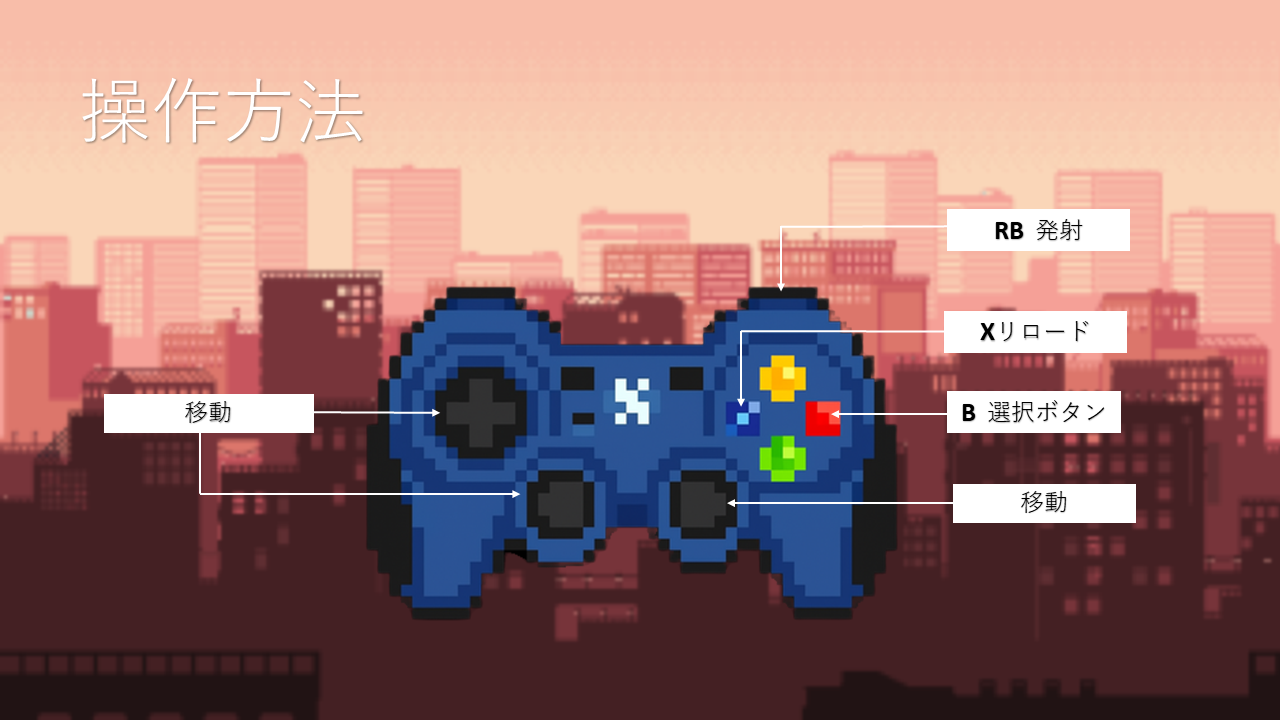
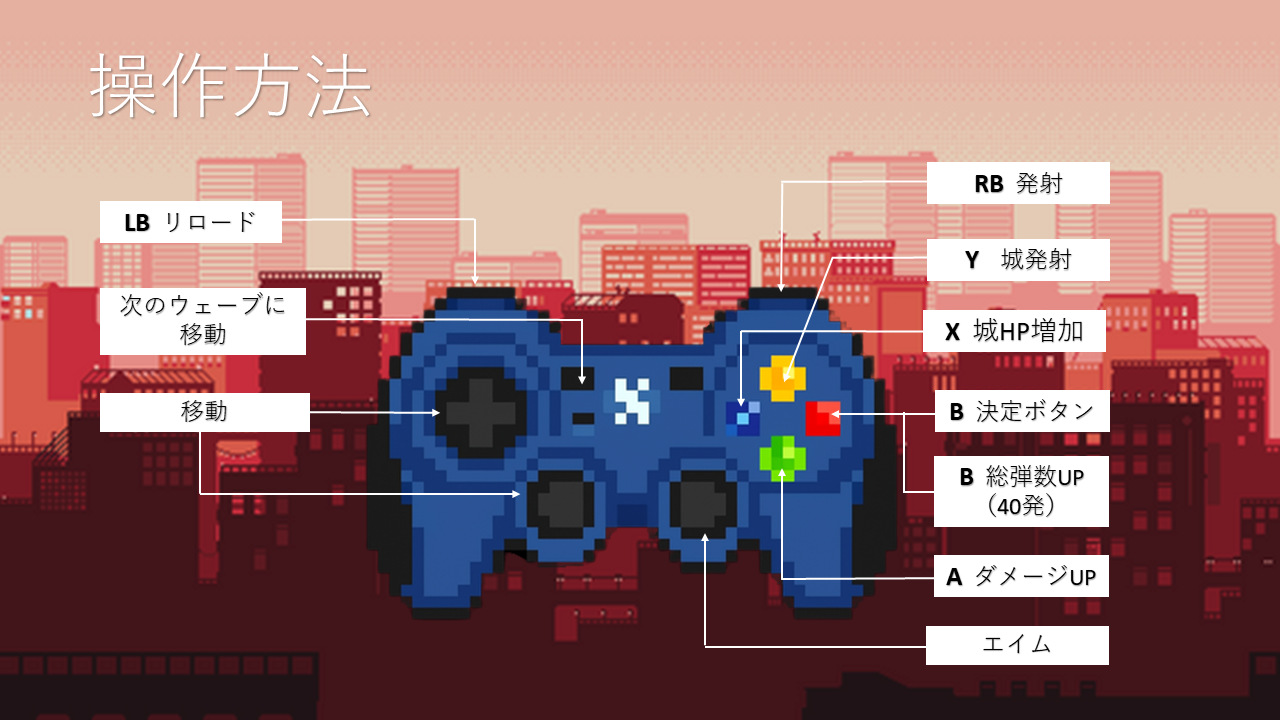
a

diff --git a/TGS_Project/Scene/GameSub/Title/TitleScene.cpp b/TGS_Project/Scene/GameSub/Title/TitleScene.cpp
@@ -14,7 +14,7 @@ void TitleScene::Initialize()
 {
 	titleImageHandle = LoadGraph("Resource/Images/Title_new.png");
 	title_arrow = LoadGraph("Resource/Images/AimMark.png");
-	Helpimage= LoadGraph("Resource/Images/IMG_0915.PNG");
+	Helpimage= LoadGraph("Resource/Images/help3.png");
 	isHelpDisplayed = false;
 
 	cursor_number = 0;
